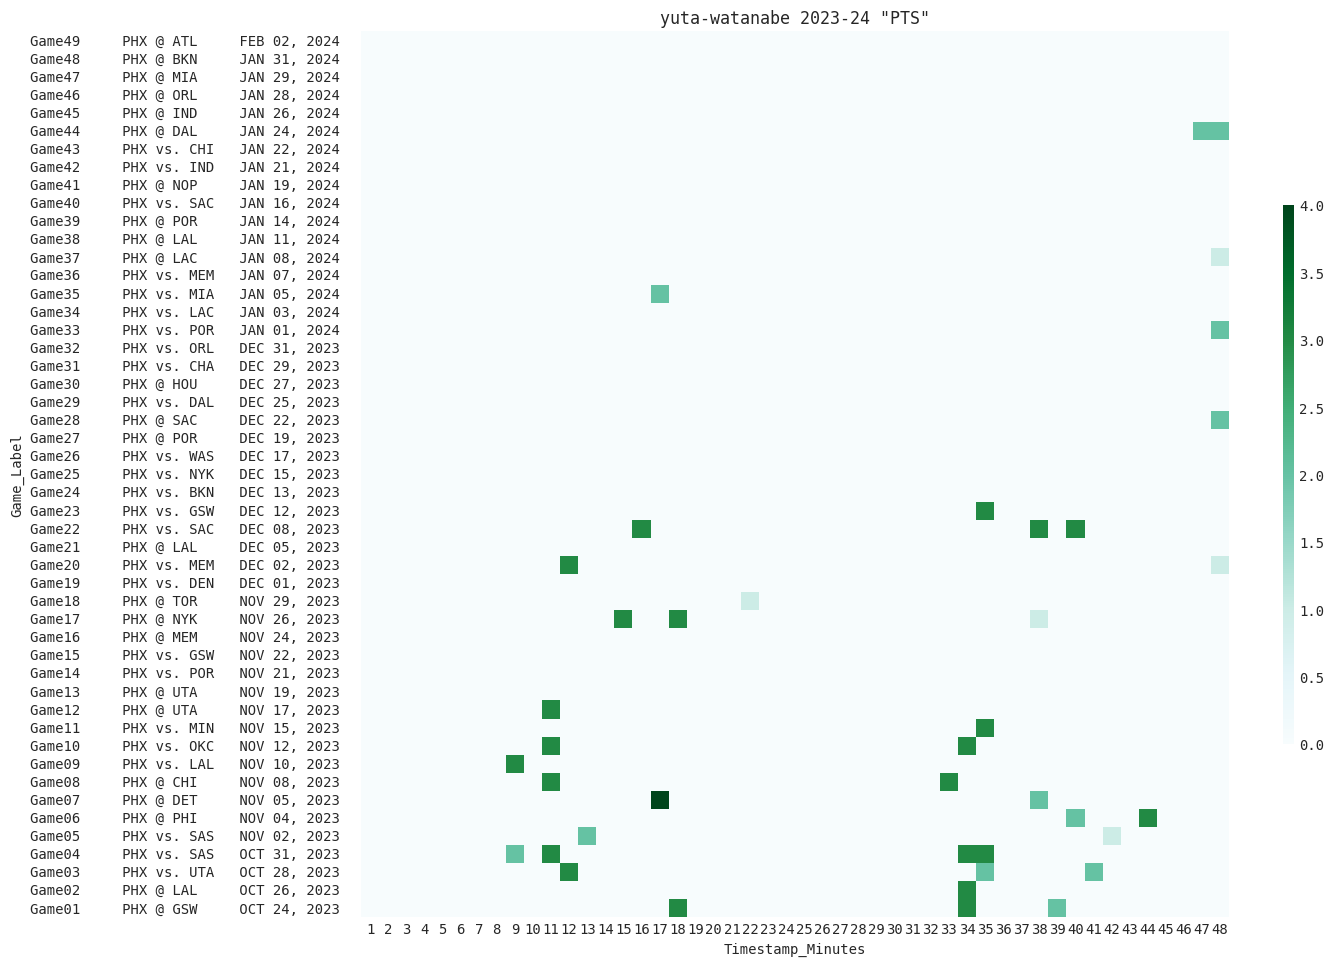
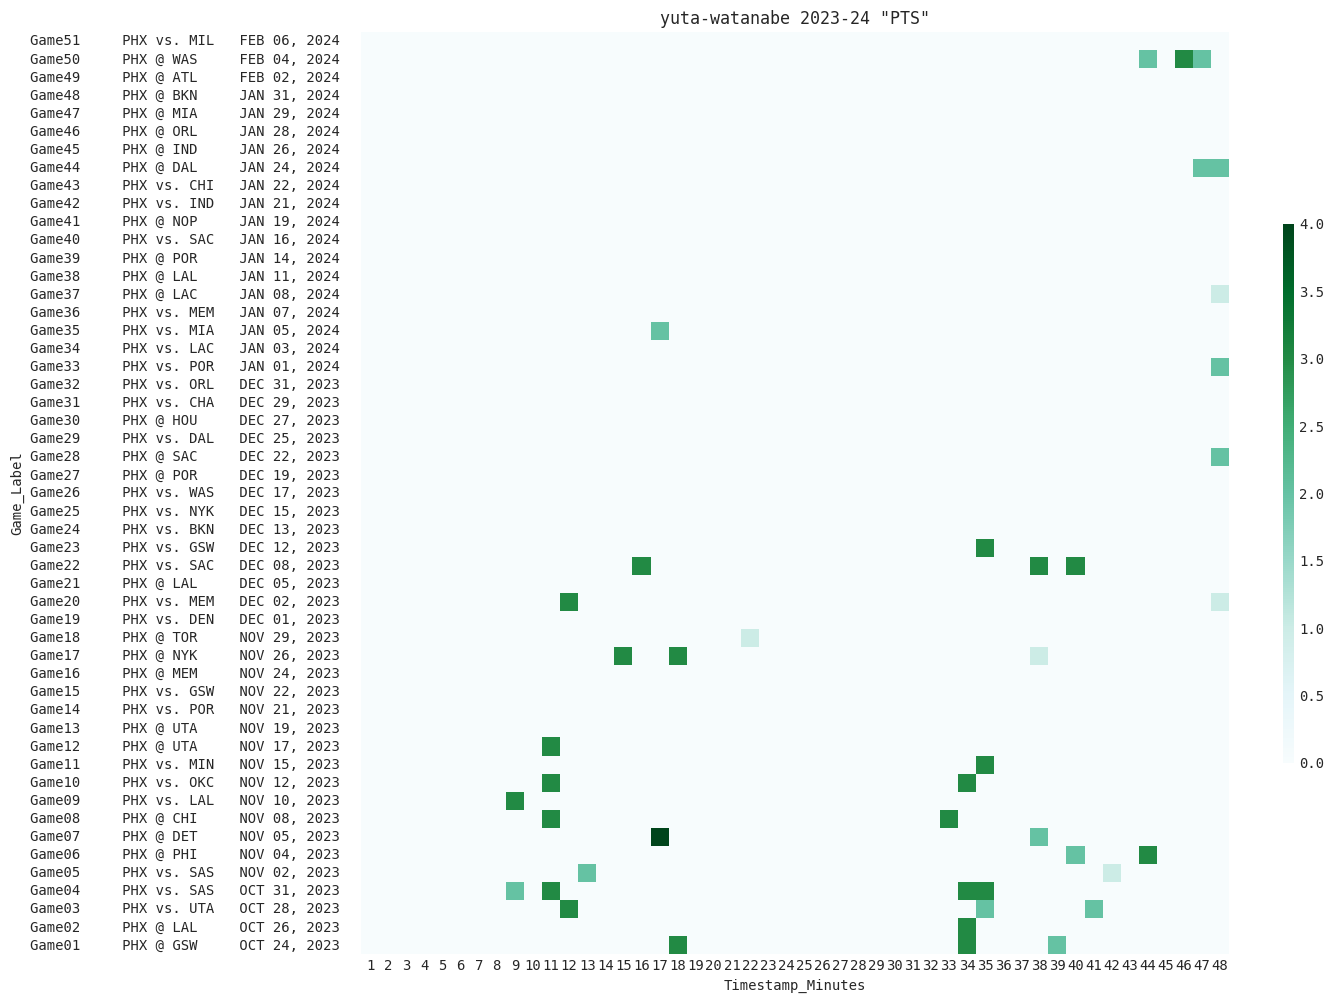
Update the stats.

diff --git a/2023-24.md b/2023-24.md
@@ -1,5 +1,5 @@
 ## 活躍状況 2023-24 シーズン
-> Last Update: 2024-02-04 18:15:27
+> Last Update: 2024-02-07 17:56:07
 
 - 渡邊雄太 Yuta Watanabe
   - 出場時間帯
